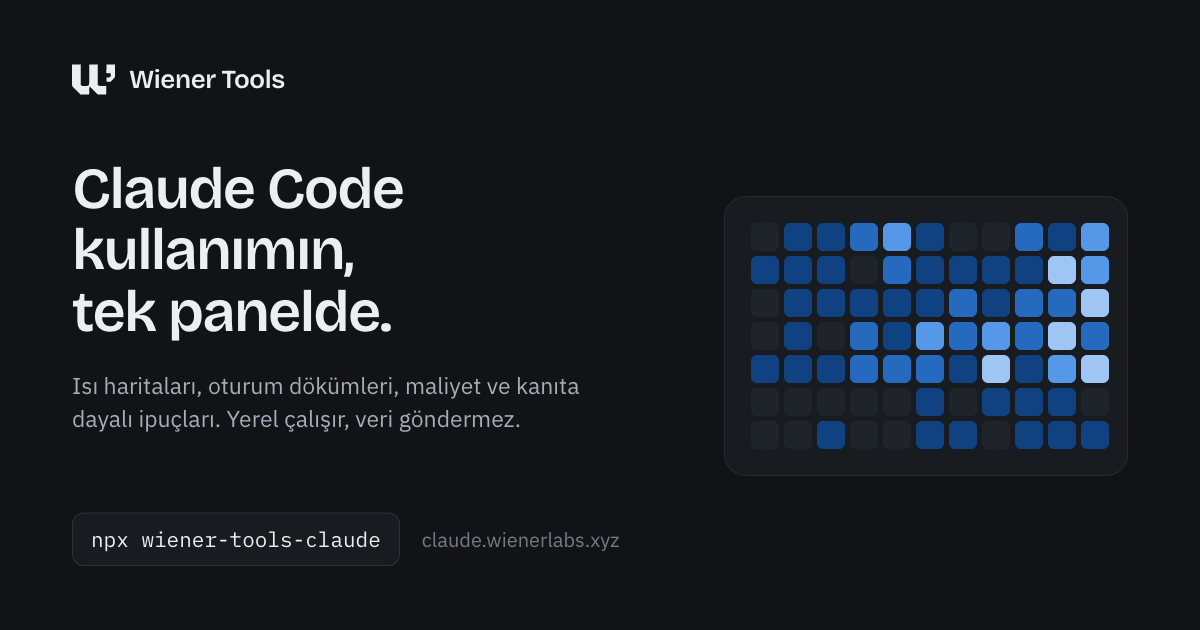
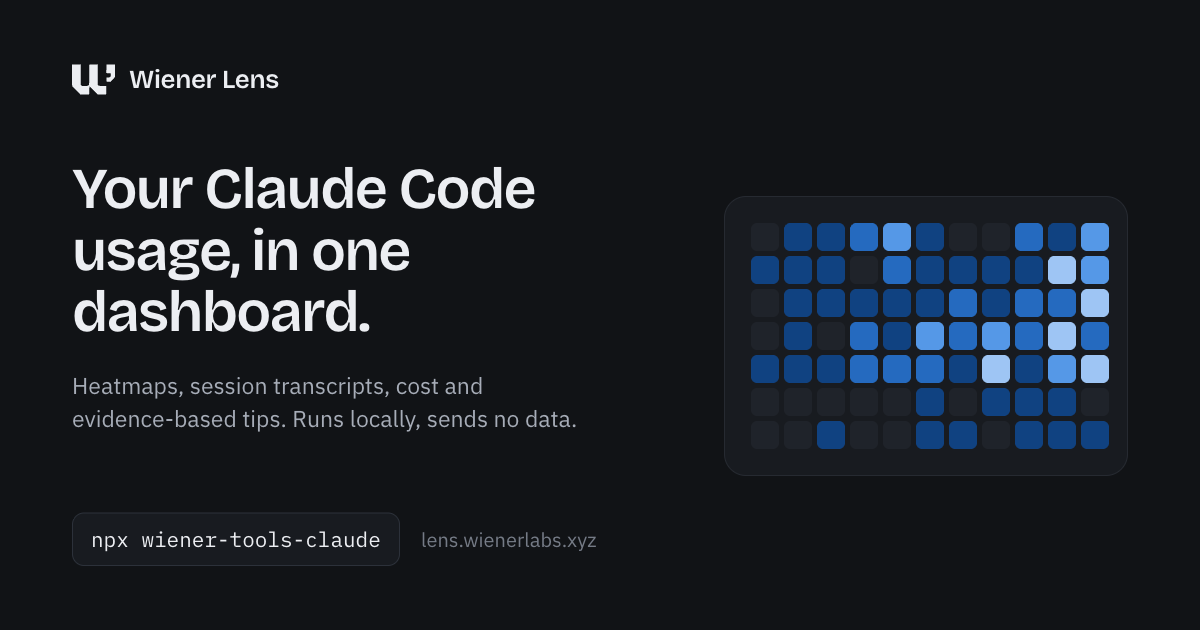
chore: kalan yerlerde Wiener Lens adı, İngilizce paylaşım görseli, lens.wienerlabs.xyz
README ve arayüzün büyük kısmı docs/wiener-lens dalında yeniden
adlandırılıyor. Bu dal yalnızca o dalın dokunmadığı dosyaları kapsıyor;
iki dal aynı dosyaya dokunmadığı için hangi sırayla birleşirse
birleşsin çakışma çıkmaz.

- PR #5 ile gelen uygulama dosyaları da yeni adı taşıyor: manifest'te
  name ve short_name "Wiener Lens"; service worker'ın çevrimdışı
  sayfasında başlık ve "Wiener Lens çalışmıyor" / "Wiener Lens is not
  running".
- og.png İngilizce: "Your Claude Code usage, in one dashboard.", alt
  metin README'deki cümle, adres lens.wienerlabs.xyz. Logo, ısı haritası
  kartı ve komut kutusu eski görselle piksel piksel aynı; yazılar aynı
  yazı tipleri, boyutlar ve konumlarla yeniden yazıldı (aynı ayarlar
  Türkçe metinle denendiğinde alt başlık birebir, diğer yazılar 1 px
  içinde tuttu).
- vercel.json: wiener-claude.vercel.app artık lens.wienerlabs.xyz'ye,
  claude.wienerlabs.xyz de kalıcı yönlendirmeyle lens.wienerlabs.xyz'ye
  gidiyor; yol ve sorgu korunuyor, eski bağlantılar çalışmaya devam
  ediyor. lens.wienerlabs.xyz Vercel projesine eklendi ve doğrulandı
  (joker DNS kaydı yetti).
- Video sahnesi (scripts/video/stage.html): ad ve adres.

Değişmeyenler: npm paketi ve komut (wiener-tools-claude), veri klasörü
(~/.wiener-tools/claude), localStorage anahtarları ve Vercel proje adı.

diff --git a/scripts/video/stage.html b/scripts/video/stage.html
@@ -2,7 +2,7 @@
 <html lang="tr">
 <head>
 <meta charset="utf-8" />
-<title>Wiener Tools · video sahnesi</title>
+<title>Wiener Lens · video sahnesi</title>
 <!--
   A 1080×1350 stage for the launch video. The demo's screens sit in iframes; render(t) places the
   camera, the captions and the end card for time t in seconds, so frames can be captured one by
@@ -57,13 +57,13 @@
   </div>
   <div id="brand">
     <svg viewBox="0 0 607 424" height="22" fill="#a7adb8" aria-hidden="true"><path fill-rule="evenodd" d="M2 0 122 1 122 279 127 291 134 298 148 303 221 302 233 296 233 294 238 290 242 281 243 1 363 1 365 281 370 292 372 292 377 298 386 302 485 304 485 424 364 424 253 312 248 316 243 328 242 424 121 424 117 421 11 315 4 304 1 295 0 2Z M487 0 605 0 607 2 607 177 601 189 545 243 488 243 486 241 486 183 533 182 541 178 546 169 546 122 487 122 485 119Z"/></svg>
-    Wiener Tools
+    Wiener Lens
   </div>
   <div id="end">
     <svg viewBox="0 0 607 424" height="76" fill="#eceef2" aria-hidden="true"><path fill-rule="evenodd" d="M2 0 122 1 122 279 127 291 134 298 148 303 221 302 233 296 233 294 238 290 242 281 243 1 363 1 365 281 370 292 372 292 377 298 386 302 485 304 485 424 364 424 253 312 248 316 243 328 242 424 121 424 117 421 11 315 4 304 1 295 0 2Z M487 0 605 0 607 2 607 177 601 189 545 243 488 243 486 241 486 183 533 182 541 178 546 169 546 122 487 122 485 119Z"/></svg>
-    <h2>Wiener Tools<br />for Claude Code</h2>
+    <h2>Wiener Lens</h2>
     <div class="cmd">npx wiener-tools-claude</div>
-    <div class="url">claude.wienerlabs.xyz</div>
+    <div class="url">lens.wienerlabs.xyz</div>
     <div class="note">Yerel çalışır. Veri göndermez.</div>
   </div>
 

diff --git a/web/public/sw.js b/web/public/sw.js
@@ -7,7 +7,7 @@ const OFFLINE = `<!doctype html>
 <meta charset="utf-8">
 <meta name="viewport" content="width=device-width, initial-scale=1">
 <meta name="color-scheme" content="light dark">
-<title>Wiener Tools</title>
+<title>Wiener Lens</title>
 <style>
 :root{--bg:#f4f5f7;--surface:#fff;--ink:#15171c;--ink-2:#565b66;--line:#e3e5ea}
 @media (prefers-color-scheme:dark){:root:not([data-theme=light]){--bg:#111316;--surface:#181b20;--ink:#eceef2;--ink-2:#a7adb8;--line:#262a31}}
@@ -23,7 +23,7 @@ code{display:inline-block;padding:9px 14px;border:1px solid var(--line);border-r
 <body>
 <main>
 <svg viewBox="0 0 607 424" aria-hidden="true"><path fill-rule="evenodd" d="${MARK}"/></svg>
-<h1 data-en="Wiener Tools is not running">Wiener Tools çalışmıyor</h1>
+<h1 data-en="Wiener Lens is not running">Wiener Lens çalışmıyor</h1>
 <p data-en="Run this in a terminal to start it. This window reloads by itself once the dashboard is up.">Başlatmak için terminalde şunu çalıştır. Panel açılınca bu pencere kendiliğinden yenilenir.</p>
 <code>npx wiener-tools-claude</code>
 </main>
